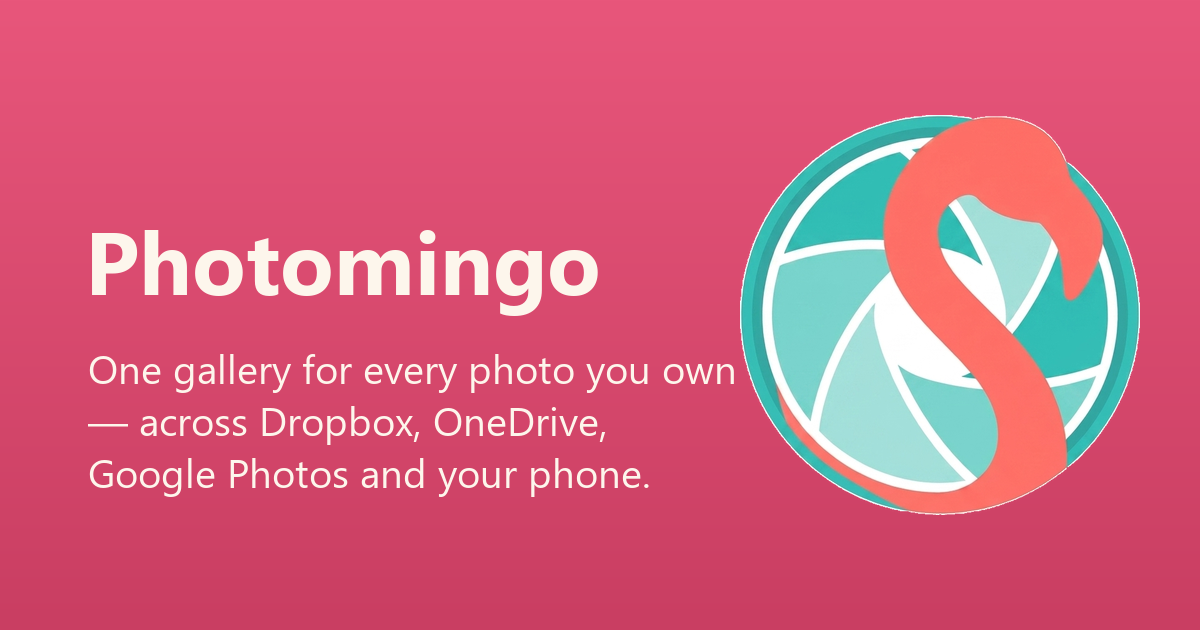
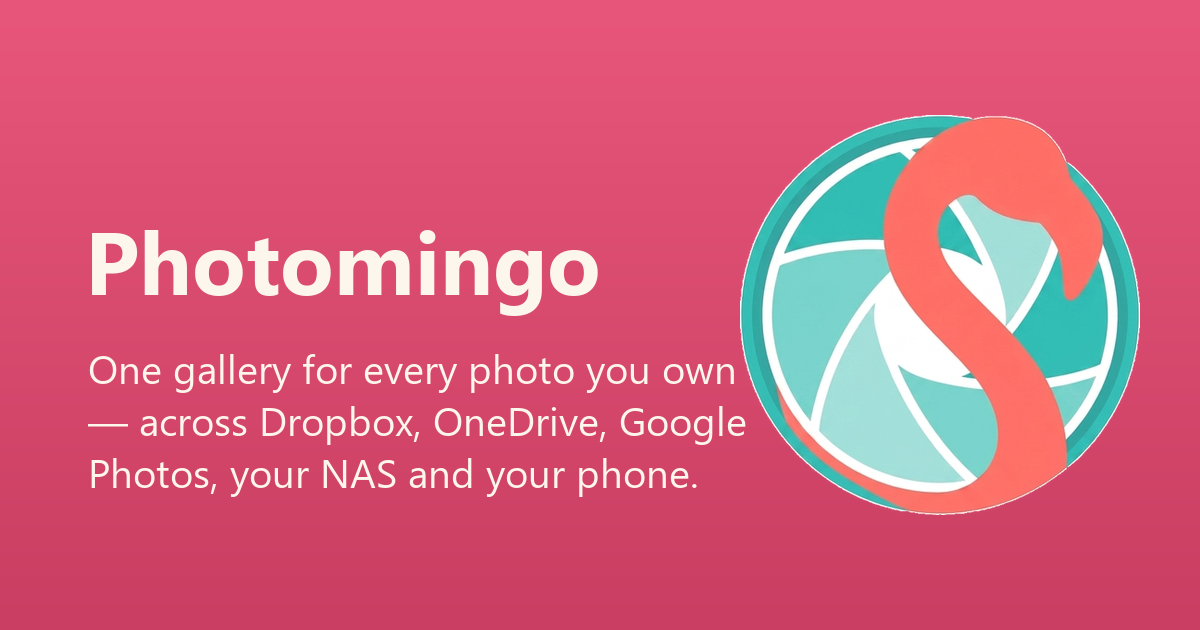
Add WebDAV to the source lists across the site
Tagline, meta descriptions, stats (4 -> 5 sources), badges copy,
privacy sections, and the og card now mention WebDAV/NAS support.

Claude-Session: https://claude.ai/code/session_01VPWGmYX2vLsAEzN8Tswk2f

Changed region(s): [[0.0617, 0.7238, 0.5858, 0.7841], [0.5242, 0.6333, 0.6167, 0.6937]]

diff --git a/index.html b/index.html
@@ -4,12 +4,12 @@
 <meta charset="utf-8">
 <meta name="viewport" content="width=device-width, initial-scale=1">
 <title>Photomingo — one gallery for all your photos</title>
-<meta name="description" content="Photomingo unifies your photos across Dropbox, OneDrive and your Android device into one gallery — find duplicates, clean them up, and see what isn't backed up. No servers, everything stays on your device.">
+<meta name="description" content="Photomingo unifies your photos across Dropbox, OneDrive, Google Photos, WebDAV and your Android device into one gallery — find duplicates, clean them up, and see what isn't backed up. No servers, everything stays on your device.">
 <link rel="icon" type="image/png" href="assets/icon.png">
 <link rel="apple-touch-icon" href="assets/icon.png">
 <link rel="canonical" href="https://photomingo.app/">
 <meta property="og:title" content="Photomingo — one gallery for all your photos">
-<meta property="og:description" content="Unify Dropbox, OneDrive and your device into one photo gallery. Find duplicates, reclaim space, see what isn't backed up. 100% on-device.">
+<meta property="og:description" content="Unify Dropbox, OneDrive, your NAS and your device into one photo gallery. Find duplicates, reclaim space, see what isn't backed up. 100% on-device.">
 <meta property="og:url" content="https://photomingo.app/">
 <meta property="og:type" content="website">
 <meta property="og:image" content="https://photomingo.app/assets/og.png">
@@ -168,7 +168,7 @@
         <span>Photomingo</span>
       </div>
       <h1>Every photo you own.<br>One gallery.</h1>
-      <p class="tagline">Dropbox, OneDrive, Google&nbsp;Photos and your Android device — unified, deduplicated, and backed up. All on your phone, never on our servers.</p>
+      <p class="tagline">Dropbox, OneDrive, Google&nbsp;Photos, WebDAV and your Android device — unified, deduplicated, and backed up. All on your phone, never on our servers.</p>
       <div class="badges">
         <!-- PLAY STORE LINK: once the app is live, replace this whole
              <span class="store-badge soon">…</span> block with:
@@ -193,7 +193,7 @@
 
 <section class="stats">
   <div class="stats-inner">
-    <div class="stat"><div class="num">4 sources</div><div class="lbl">Device · Dropbox · OneDrive · Google Photos</div></div>
+    <div class="stat"><div class="num">5 sources</div><div class="lbl">Device · Dropbox · OneDrive · Google Photos · WebDAV</div></div>
     <div class="stat"><div class="num pink">38.98 GB</div><div class="lbl">of duplicates found in one real library</div></div>
     <div class="stat"><div class="num">0 servers</div><div class="lbl">everything is indexed on your phone</div></div>
   </div>
@@ -204,7 +204,7 @@
     <div class="copy">
       <span class="kicker">See everything</span>
       <h2>Badges show where every photo lives</h2>
-      <p>Each thumbnail carries tiny badges for the places it exists — this device, Dropbox, OneDrive, Google&nbsp;Photos. One glance tells you what's safe and what's stranded on a single copy, and a backup-status filter shows only the photos missing from a cloud.</p>
+      <p>Each thumbnail carries tiny badges for the places it exists — this device, Dropbox, OneDrive, Google&nbsp;Photos, your WebDAV server. One glance tells you what's safe and what's stranded on a single copy, and a backup-status filter shows only the photos missing from a cloud.</p>
     </div>
     <div class="phone"><img src="assets/screen-backup.jpg" alt="Backup status filter — show photos missing from any cloud" width="480" height="1229" loading="lazy"></div>
   </div>
@@ -244,7 +244,7 @@
 
 <section class="privacy">
   <h2>Private by design</h2>
-  <p>Your photos and their index never leave your device. Photomingo talks directly to your own Dropbox, OneDrive and Google accounts — there is no Photomingo server, no analytics, and no account to create. Cloud access tokens are stored encrypted on your phone. <a href="privacy.html">Read the privacy policy</a>.</p>
+  <p>Your photos and their index never leave your device. Photomingo talks directly to your own Dropbox, OneDrive and Google accounts — or your own WebDAV server (NAS, Nextcloud, anything self-hosted). There is no Photomingo server, no analytics, and no account to create. Cloud access tokens are stored encrypted on your phone. <a href="privacy.html">Read the privacy policy</a>.</p>
   <div class="chips">
     <span class="chip">100% on-device</span>
     <span class="chip">No ads</span>

diff --git a/privacy.html b/privacy.html
@@ -34,7 +34,7 @@
   <h2>What the app stores, and where</h2>
   <ul>
     <li><strong>Your photo index</strong> (filenames, dates, sizes, content fingerprints) is stored in a local database on your device only.</li>
-    <li><strong>Cloud sign-in tokens</strong> for services you connect (e.g. Dropbox, OneDrive, Google Photos) are stored on your device in encrypted storage. They are sent only to the corresponding service to access your files there.</li>
+    <li><strong>Cloud sign-in tokens and server credentials</strong> for services you connect (e.g. Dropbox, OneDrive, Google Photos, a WebDAV server) are stored on your device in encrypted storage. They are sent only to the corresponding service to access your files there.</li>
     <li><strong>Your photos</strong> are transferred only between your device and the cloud services you explicitly connect, only at your request (viewing, uploading, importing or deleting copies). They never pass through any server operated by Photomingo.</li>
   </ul>
 
@@ -42,7 +42,7 @@
   <p>Nothing. Photomingo has no backend to send data to. We do not collect, transmit, sell or share any personal data, usage analytics, or information about your photo library.</p>
 
   <h2>Third-party services</h2>
-  <p>When you connect a cloud service, your use of that service is governed by its own privacy policy: <a href="https://www.dropbox.com/privacy">Dropbox</a>, <a href="https://privacy.microsoft.com/">Microsoft (OneDrive)</a>, <a href="https://policies.google.com/privacy">Google (Google Photos)</a>. Photomingo requests only the permissions needed to list, view, upload and delete the files you manage through it.</p>
+  <p>When you connect a cloud service, your use of that service is governed by its own privacy policy: <a href="https://www.dropbox.com/privacy">Dropbox</a>, <a href="https://privacy.microsoft.com/">Microsoft (OneDrive)</a>, <a href="https://policies.google.com/privacy">Google (Google Photos)</a>. If you connect a WebDAV server, your data is handled by whoever operates that server — for a self-hosted NAS or Nextcloud, that's you. Photomingo requests only the permissions needed to list, view, upload and delete the files you manage through it.</p>
 
   <h2>Permissions</h2>
   <ul>
